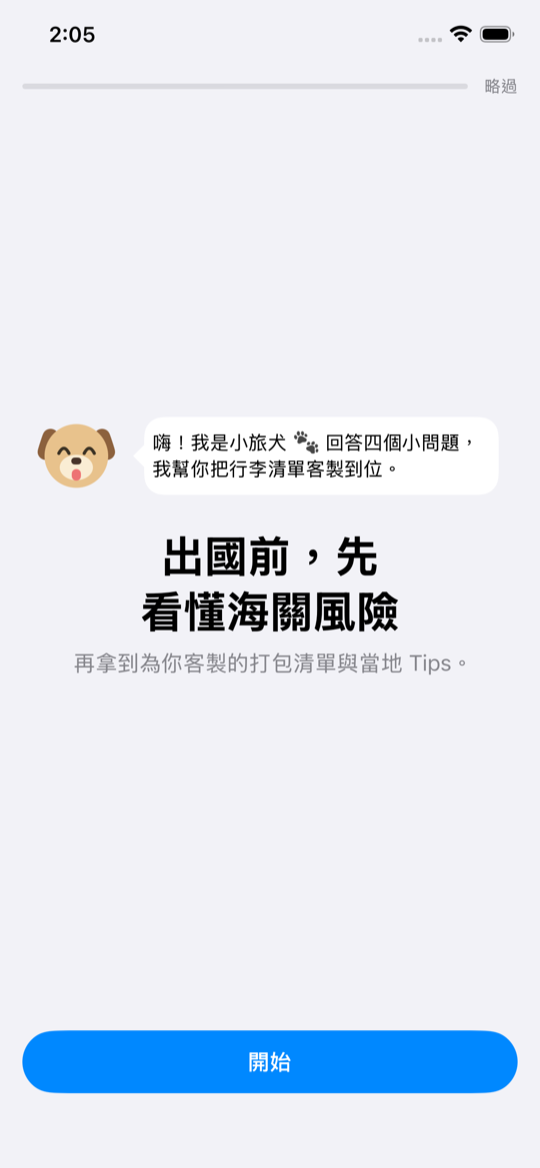
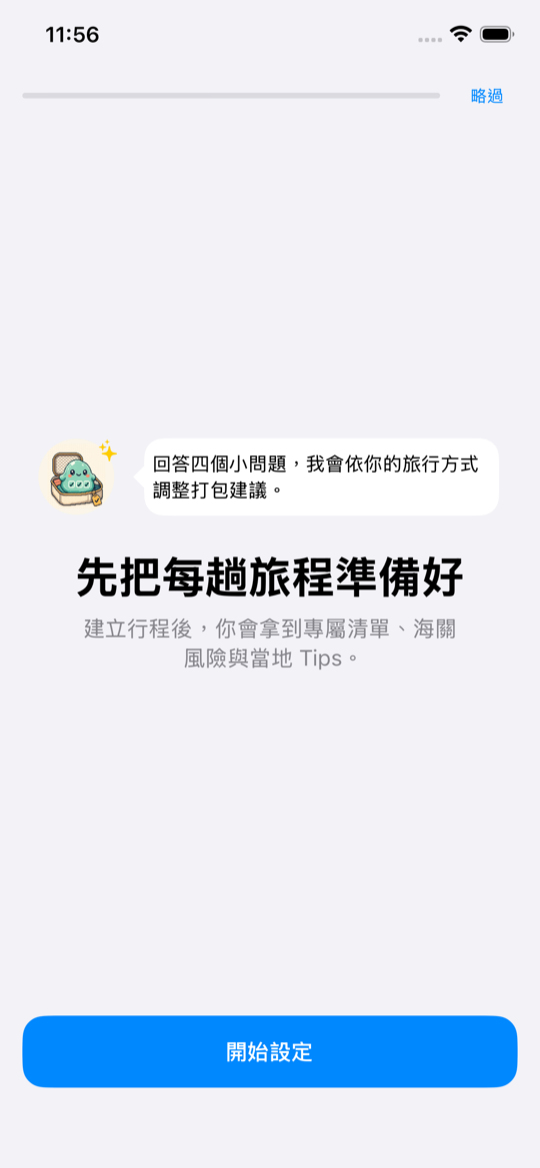
Update README for the slime-era focused app
Documents the semantic can-I-bring checker, stage-based UI flow, five
preference questions (incl. packing style), slime mascot, and the
design system; fresh screenshots; branch roles updated for the main
promotion (main = focused app, full-app = archived four-module build).

Claude-Session: https://claude.ai/code/session_01DiEeLcARjqokNVXFUrJoMz

diff --git a/README.md b/README.md
@@ -2,71 +2,73 @@
 
 > **出國前，先看懂海關風險，再開始打包。**
 
-聚焦兩件事的旅行助手 iOS App（SwiftUI + SwiftData，iOS 17+）：**行程 → 專屬打包清單＋當地 Tips**。繁體中文原生介面、資料留在裝置、零帳號。
+聚焦兩件事的旅行助手 iOS App（SwiftUI + SwiftData，iOS 17+）：**行程 → 專屬打包清單＋當地 Tips**。繁體中文原生介面、資料留在裝置、零帳號，吉祥物**小史萊姆**全程陪跑。
 
-## 亮點：「這個能帶嗎？」🐶
+## 亮點：「這個能帶嗎？」🟢
 
-在 Tips 分頁輸入任何物品，小旅犬**即問即答**——同時查「去程入境海關」「回程入境海關」「航線安檢」三處規則，附官方來源與最後查證日期，完全離線：
+在 Tips 分頁輸入任何物品，小史萊姆**即問即答** — 同時查「去程入境海關」「回程入境海關」「航線安檢」三處規則，附官方來源與最後查證日期，完全離線：
 
-- 輸入「**肉鬆**」→ 🚫 兩筆禁止：入境日本（動物檢疫所）＋回程入境台灣（防檢署，最高罰 100 萬）
-- 輸入「**行動電源**」→ ✈️ 限隨身・禁托運（IATA Wh 分級；韓國航線加嚴規則自動出現）
-- 輸入「**雨傘**」→ ✅ 查無限制
+- 「**肉鬆**」或「**肉絲**」→ 🚫 兩筆禁止：入境日本（動物檢疫所）＋回程入境台灣（防檢署，最高罰 100 萬）— **語意判定**，不是死板的關鍵字表
+- 「**肉桂**」→ ✅ 查無限制（排除詞防誤判，有「肉」字不代表是肉品）
+- 「**行動電源**」「充電寶」→ ✈️ 限隨身・禁托運（IATA Wh 分級；韓國航線加嚴規則依出發地/目的地自動出現）
+- 「**電子菸**」→ 異體字（菸/煙）自動正規化命中
 
-口語別名都聽得懂（充電寶、香腸、斯斯…）。**沒有任何打包 App 做物品層級的合法性問答。**
+比對三層：口語別名 → 語意關鍵字＋排除詞 → 異體字正規化。**沒有任何打包 App 做物品層級的合法性問答。**
 
-## 功能總覽
+## UI Flow
 
-| 分頁 | 內容 |
-|---|---|
-| 行程 | 出發地＋目的地（東亞：台/日/韓，含城市）、日期；名稱自動命名；偏好設定隨時可改 |
-| 清單 | 依「目的地規定＋文化＋**即時天氣**＋**你的偏好**」四層規則生成，「因為是…」分組；前一晚模式、回程模式（防遺留）、分享清單 |
-| Tips | 「能帶嗎」查詢＋海關規定（去程/回程雙向）＋航空安檢＋城市文化（東京手扶梯靠左、大阪靠右） |
-
-**小旅犬 🐾**：浮動吉祥物，左右緣皆可停靠（拖曳吸附、點擊縮放），做 D-day 行前提醒（D-1「行動電源充飽了嗎？」）、天氣播報與查詢回答。
-
-**個人化**：首次啟動四個問題（年齡層/性別/同行組成/旅行經驗）直接改變清單——家庭出遊多兒童常備藥、第一次出國多護照影本與旅平險、同事出差多名片正裝。
-
-**即時天氣**：[Open-Meteo](https://open-meteo.com) 抓目的地城市在旅行日期的預報，預計有雨自動加傘；離線退回月份規則。
-
-**Widget**：主畫面「出發倒數」D-n＋打包進度（倒數以日期即時計算，跨日自動翻頁）。
+```
+首次啟動 ── 5 題偏好（年齡/性別/同行/經驗/行李偏好）
+    ▼
+階段一：底部分頁「行程＋偏好設定」──三步驟建行程（出發地/目的地/日期）
+    ▼  建立或選定行程後自動切換
+階段二：底部分頁「清單＋Tips」──打包與查規則（工具列可回行程管理）
+    ▼  行程結束
+自動退回階段一
+```
 
 ## 操作步驟
 
-### 1. 首次啟動：完成四項基本設定
+### 1. 首次啟動：小史萊姆帶你回答五個問題
 
-<img src="docs/screenshots/01-onboarding.png" width="240" alt="Onboarding 首屏">
+<img src="docs/screenshots/01-onboarding.png" width="240" alt="Onboarding 歡迎頁">
 
-年齡層 → 性別（可略過）→ 同行組成 → 旅行經驗。完成後進入行程列表，所有設定都能稍後修改。
+年齡層 → 性別（可略過）→ 同行組成 → 旅行經驗 → **行李偏好（輕便/完整）**。答案直接改變清單：家庭出遊多兒童用品、第一次出國多保命文件、輕便風格略過加分項目並減少衣物數量。
 
-### 2. 建立行程：三步驟完成行前準備
+### 2. 行程：三步驟建立，分類管理
 
-行程基本資訊 → 採納／取消推薦清單並加入自訂物品 → 閱讀去回程海關與航空安檢提醒。中途離開會保留草稿，完成後依日期自動分類為未開始、進行中或歷史行程。
+<img src="docs/screenshots/02-trips.png" width="240" alt="行程列表">
+
+「未開始／進行中／歷史」分段檢視；「＋」進入三步驟建行程（出發地＋目的地，東亞台/日/韓含城市，自動帶預設城市）。建立後 App 切換為旅行模式。
 
 ### 3. 清單：先知道天氣，再開始打包
 
-<img src="docs/screenshots/02-checklist.png" width="240" alt="打包清單與天氣">
+<img src="docs/screenshots/03-checklist.png" width="240" alt="打包清單與小史萊姆">
 
-清單依四層規則生成、「因為是…」分組說明理由；小旅犬播報旅行期間預報（有雨自動加傘）。工具列：前一晚模式（大字掃未打包）、回程模式（重設反向檢查，誤觸自動還原）、分享清單。
+依「目的地規定＋文化＋**即時天氣**（Open-Meteo）＋**你的偏好**」生成，「因為是…」分組說明理由；預計有雨小史萊姆會自動加傘並跳出播報。工具列：前一晚模式、回程模式（防遺留，誤觸自動還原）、分享清單；左上可回行程管理與偏好設定。
 
 ### 4. Tips：能帶嗎＋雙向海關＋城市文化
 
-<img src="docs/screenshots/03-tips.png" width="240" alt="Tips 分頁">
+<img src="docs/screenshots/04-tips.png" width="240" alt="Tips 與能帶嗎查詢">
 
-頂部輸入框即問即答；海關規定分「去程入境」與「回程入境」兩段；城市文化提醒城市限定優先。每條法規附官方來源連結。
+頂部輸入框即問即答；海關規定分「去程入境」與「回程入境」兩段；城市文化提醒城市限定優先（東京手扶梯靠左、大阪靠右）。每條法規附官方來源連結。
 
-### 5. 小旅犬：想放哪就放哪
+### 小史萊姆 🟢
 
-<img src="docs/screenshots/04-mascot-left.png" width="240" alt="小旅犬停靠左緣">
+動畫吉祥物浮動於左右任一緣（拖曳吸附、位置記憶），點一下縮成半露、再點展開。D-day 行前提醒（D-1「行動電源充飽了嗎？」）、天氣播報、查詢回答，表情隨情境變化。
 
-拖曳到任一側自動吸附（位置記憶），點一下縮成半露狗頭、再點展開。
+### 主畫面 Widget
+
+「出發倒數」D-n＋打包進度（小／中尺寸），倒數以日期即時計算、跨日自動翻頁。
 
 ## 開發
 
 - Xcode 26+，開啟 `TravelGenius.xcodeproj`，scheme `TravelGenius`，Cmd+R
-- **Branch**：`focus`＝本聚焦版；`main`＝完整四模組版（含記帳、報帳匯出、醫療卡）
+- **Branch**：`main`＝聚焦版（本版）；`full-app`＝早期完整四模組版（含記帳、報帳匯出、醫療卡）
 - CLI 建置：`DEVELOPER_DIR=/Applications/Xcode.app xcodebuild -project TravelGenius.xcodeproj -scheme TravelGenius -destination 'platform=iOS Simulator,name=iPhone 17' build`
-- 開發用啟動引數：`-seedDemo`（示範行程）、`-resetOnboarding`、`-openPackTab` / `-openTipsTab`、`-checkItem 肉鬆`（log 印出能帶嗎判定）、`-mascotDockOnLeft YES`
-- 靜態資料在 `TravelGenius/Resources/SeedData/*.json`（海關/安檢規則含 `aliases` 口語別名與 `sourceUrl`），直接編輯即可擴充
+- 開發用啟動引數：`-seedDemo`（示範行程）、`-resetOnboarding`、`-openPackTab` / `-openTipsTab`、`-checkItem 肉絲`（log 印出能帶嗎判定）、`-mascotDockOnLeft YES`
+- 靜態資料在 `TravelGenius/Resources/SeedData/*.json` — 海關/安檢規則支援 `aliases`（口語別名）、`keywords`／`exclusions`（語意判定）與 `sourceUrl`，直接編輯即可擴充
+- 設計系統：`TravelGenius/SharedUI/PackSmartDesignSystem.swift`＋`design-system/` 文件
 - 實機安裝需在兩個 target 設定 Development Team 並註冊 App Group（`group.com.example.TravelGenius`）
 
 ## 資料來源
@@ -84,8 +86,9 @@
 
 ## 架構
 
-- SwiftData：`Trip`（出發地/目的地/日期）←`PackingItem`；偏好存 UserDefaults（`UserPreferences`）
-- 規則引擎：`packing_rules.json` 四＋偏好層（base/regulation/culture/weather/party/experience/age/gender），`PackingListGenerator.sync` 合併式重生成（永不動自訂與已打包項目）
-- `CanIBringService`：物品名／別名雙向比對 → 嚴重度排序判定
+- SwiftData：`Trip`（出發地/目的地/日期）←`PackingItem`；偏好存 UserDefaults（`UserPreferences`，五欄位）
+- 階段式導航：`RootTabView` 依「是否有進行中行程」切換分頁組；onboarding 完成後鎖定行程階段直到明確選定行程
+- 規則引擎：`packing_rules.json` 多層（base/regulation/culture/weather/party/experience/age/gender＋fullOnly 輕便過濾），`PackingListGenerator.sync` 合併式重生成（永不動自訂與已打包項目）
+- `CanIBringService`：別名／關鍵字＋排除詞／異體字三層比對 → 嚴重度排序，去程回程雙向
 - `WeatherService`：Open-Meteo，6 小時快取，16 天預報範圍外自動退回
-- `MascotState`（@Observable）＋`FloatingMascotDock`：全 App 浮動吉祥物
+- 小史萊姆：`MascotState`（@Observable）＋`FloatingMascotDock`＋`AnimatedGIFView`（縮圖解碼、尊重減少動態）